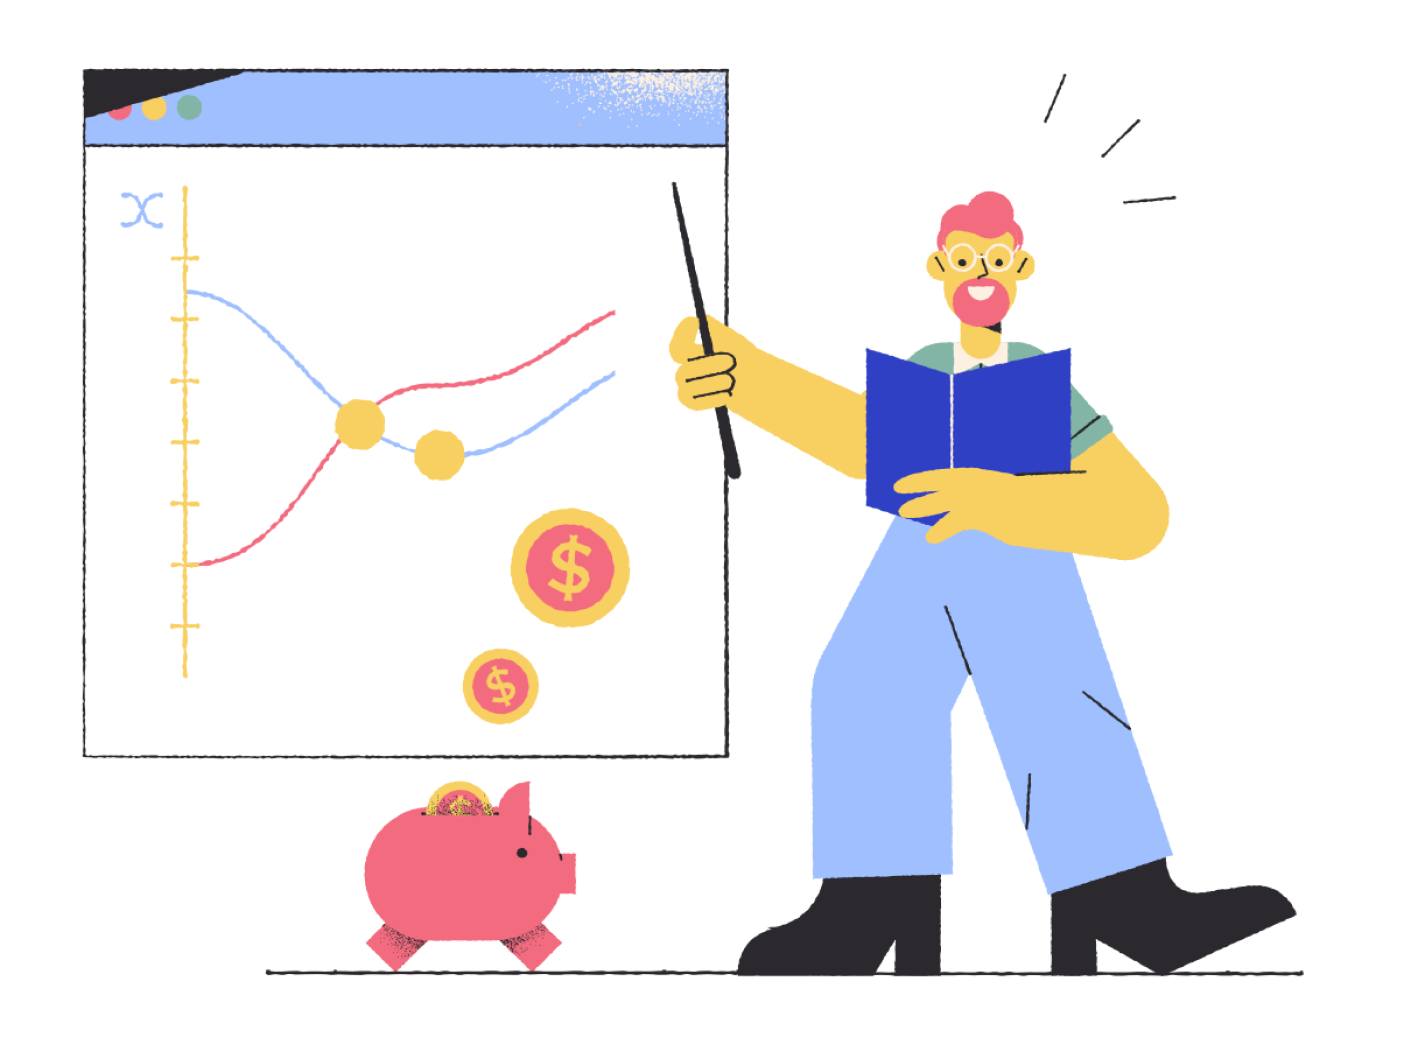
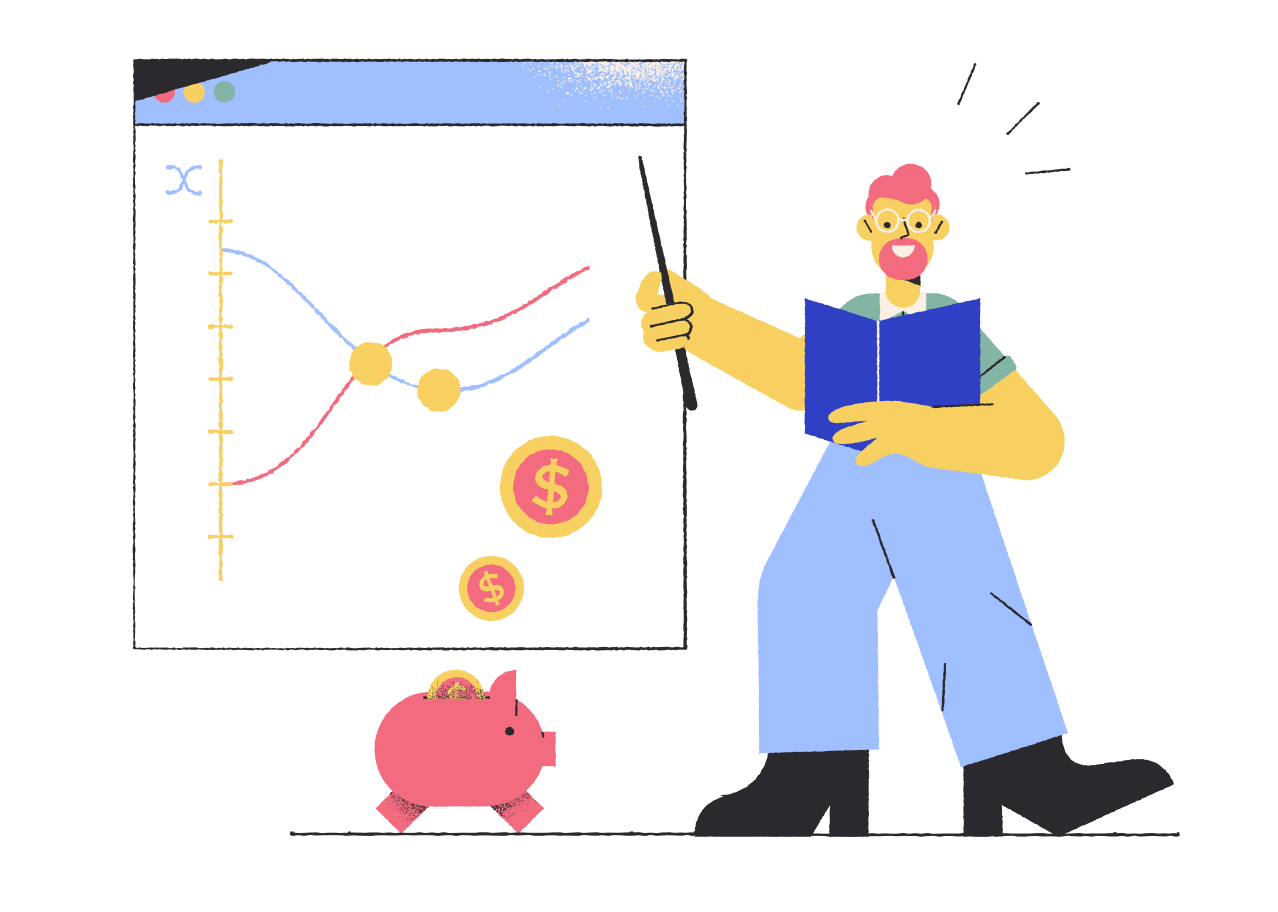
Update Landing Page

diff --git a/src/components/navbar/index.tsx b/src/components/navbar/index.tsx
@@ -15,20 +15,17 @@ export const NavBar: React.FC<{}> = () => {
       <div className="logo">
         <img src={Logo} alt="logo" onClick={handleClickLogo} />
       </div>
-      <Stack className="buttons" spacing={5} direction="row">
-        <Stack className="menuStack" spacing={3} direction="row">
-          <Link className="link" to="/about">
-            <Button className="aboutBtn">ABOUT US</Button>
-          </Link>
-        </Stack>
-        <Stack className="authStack" spacing={2} direction="row">
-          <Link className="link" to="/login">
-            <Button className="loginBtn">LOGIN</Button>
-          </Link>
-          <Link className="link" to="/signup">
-            <Button className="signUpBtn">SIGN UP</Button>
-          </Link>
-        </Stack>
+
+      <Stack className="authStack" spacing={2} direction="row">
+        <Link className="link" to="/about">
+          <Button className="aboutBtn">ABOUT US</Button>
+        </Link>
+        <Link className="link" to="/login">
+          <Button className="loginBtn">LOGIN</Button>
+        </Link>
+        <Link className="link" to="/signup">
+          <Button className="signUpBtn">SIGN UP</Button>
+        </Link>
       </Stack>
     </nav>
   );

diff --git a/src/styles/pages/_landing.scss b/src/styles/pages/_landing.scss
@@ -11,6 +11,7 @@
     &:hover {
       background: $theme-color;
     }
+    border-radius: 15px;
   }
   // height: 550px;
   margin: 40px 0px;
@@ -43,13 +44,12 @@
 }
 .border-section {
   border: 5px solid $skyblue-border-line;
-  z-index: -1;
 }
 .stacked-rectangle-wrapper {
   background-image: url("../../assets/stacked-rectangle.svg");
   background-position: right 10px top 30px;
   padding: 50px;
-  z-index: 300;
+
   background-repeat: no-repeat;
   background-size: 200px;
   @media (max-width: $media-l) {
@@ -74,6 +74,7 @@
 .be {
   margin-left: -30px;
   margin-top: -40px;
+  z-index: 1;
   @media (max-width: $media-l) {
     width: 140px;
     margin-top: -30px;
@@ -197,7 +198,7 @@
 
 .section-heading {
   font-family: $raleway;
-  font-size: 64px;
+  font-size: 70px;
   @media (max-width: $media-l) {
     font-size: 55px;
   }

diff --git a/src/pages/landing/index.tsx b/src/pages/landing/index.tsx
@@ -7,7 +7,7 @@ const {
   BE,
   BoardGraph,
   BrushTouch,
-  BudgetPlannerSVG,
+  BudgetPlannerIMG,
   LargeRectangle,
   SmallRectangle,
   Create,
@@ -35,7 +35,7 @@ const MainSection: React.FC<{}> = () => {
         <div className="img-wrapper">
           <img
             className="budget-planner"
-            src={BudgetPlannerSVG}
+            src={BudgetPlannerIMG}
             alt="budget-planner"
           />
         </div>

diff --git a/src/styles/components/_navbar.scss b/src/styles/components/_navbar.scss
@@ -23,6 +23,7 @@ nav {
     color: $dark-theme-color;
     font-family: inherit;
     font-weight: 700;
+
     &:before {
       top: 0;
       right: 0;
